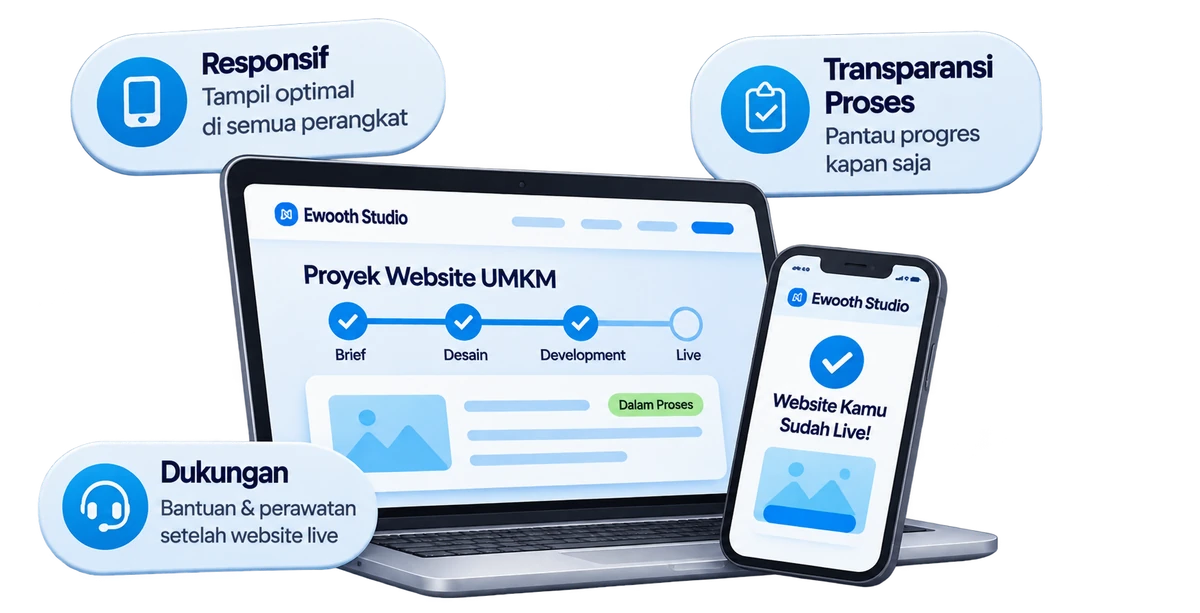
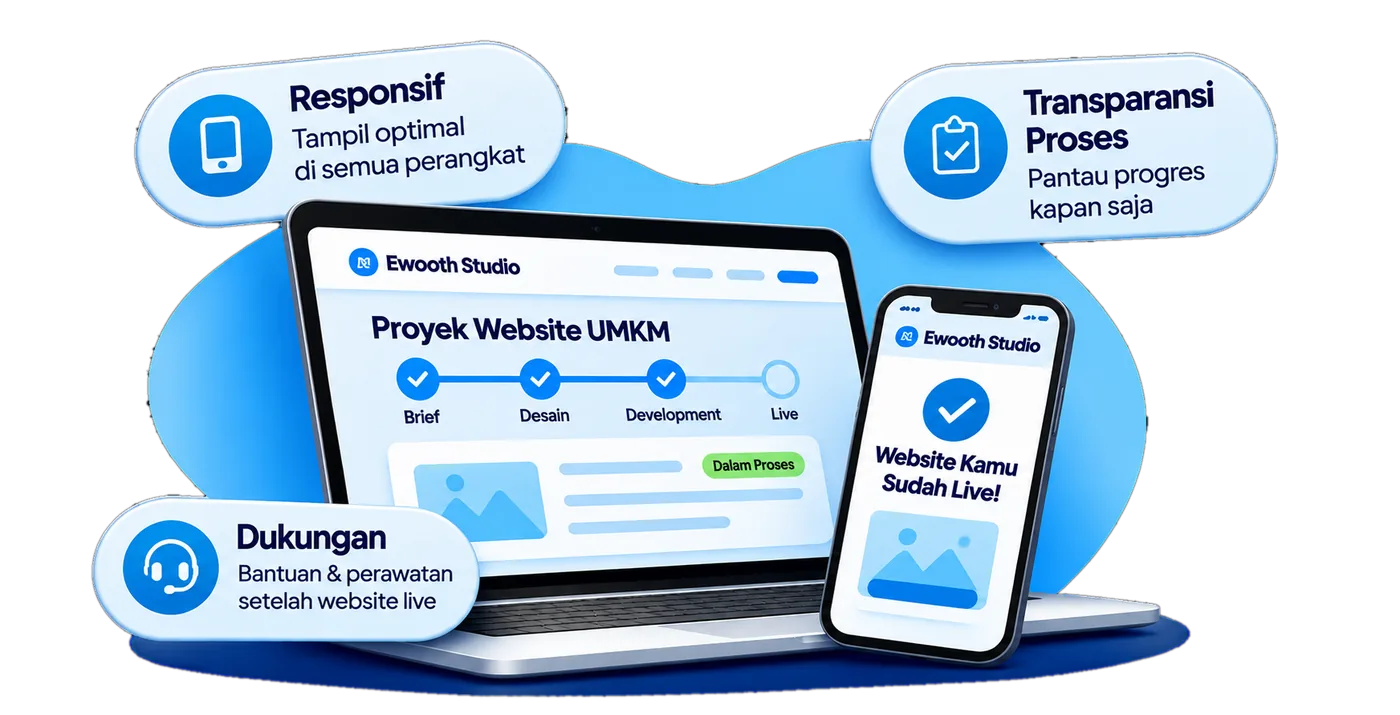
assets: refresh hero and keunggulan showcase images
- swap the hero browser mockup for the coffee-shop showcase photo
- use the refreshed keunggulan artwork with its ground shadow, with the
  baked-in black matte removed so it blends with the light section
- sync intrinsic width/height (1400x788 hero, 1400x715 keunggulan)

diff --git a/src/App.jsx b/src/App.jsx
@@ -13,6 +13,7 @@ import {
   FaXmark,
 } from "react-icons/fa6";
 import { SiGmail, SiJavascript, SiReact, SiVite } from "react-icons/si";
+import heroShowcase from "./assets/hero-showcase.webp";
 import keunggulanShowcase from "./assets/keunggulan-showcase.webp";
 import logo from "./assets/logo.png";
 import logoWhite from "./assets/logo-white.png";
@@ -260,22 +261,15 @@ function Reveal({ as: Tag = "div", className = "", delay = 0, children, ...rest 
 function BrowserArt() {
   return (
     <div className="hero-visual">
-      <div className="browser" aria-hidden="true">
-        <div className="browser-top">
-          <span />
-          <span />
-          <span />
-        </div>
-        <div className="browser-body">
-          <div>
-            <i />
-            <i />
-            <i />
-            <b />
-          </div>
-          <div className="browser-photo" />
-        </div>
-      </div>
+      <img
+        className="hero-shot"
+        src={heroShowcase}
+        alt="Contoh website modern dan responsif di laptop dan ponsel"
+        width="1400"
+        height="788"
+        fetchPriority="high"
+        decoding="async"
+      />
     </div>
   );
 }
@@ -547,8 +541,8 @@ export default function App() {
                 className="partner-shot"
                 src={keunggulanShowcase}
                 alt="Website Ewooth Studio responsif di laptop dan ponsel dengan proses pengerjaan yang transparan"
-                width="1200"
-                height="613"
+                width="1400"
+                height="715"
                 loading="lazy"
                 decoding="async"
               />
